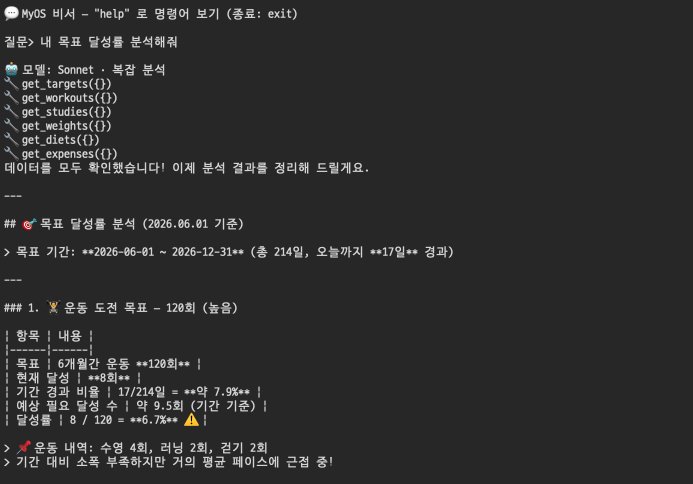
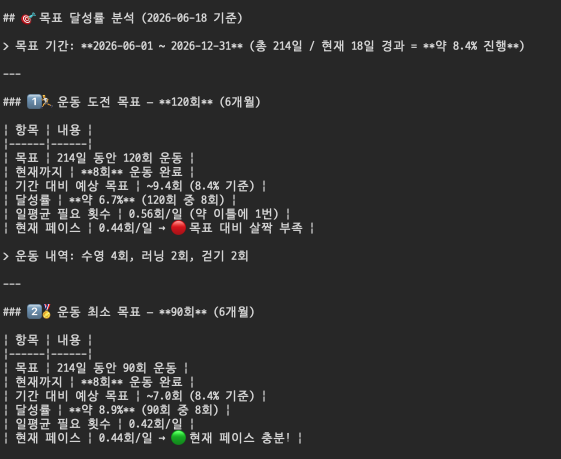
feat: 행 삭제(delete_record) 도구 추가
- delete_record 도구로 노션 휴지통 이동(복구 가능) 삭제 지원
- 삭제 전 제목·날짜 미리보기(getRecordSummary)로 잘못된 행 삭제 방지
  (날짜 없는 DB는 제목만 표시)
- 삭제/수정 의도 키워드 감지 시 상위 모델로 라우팅
- MyOS 캐러셀에 myos-screen4.png 추가

Changed region(s): [[0.0, 0.0, 0.6667, 0.5795], [0.0, 0.61, 0.5152, 0.976], [0.303, 0.0915, 0.9394, 0.122]]

diff --git a/src/index.ts b/src/index.ts
@@ -14,7 +14,13 @@ import { getProjects } from "./notion/project.js";
 import { getApplications } from "./notion/application.js";
 
 import { schemas } from "./notion/schema.js";
-import { createRecord, updateRecord, getCurrentValues } from "./notion/mutate.js";
+import {
+  createRecord,
+  updateRecord,
+  deleteRecord,
+  getCurrentValues,
+  getRecordSummary,
+} from "./notion/mutate.js";
 
 // Anthropic 클라이언트.
 const anthropic = new Anthropic();
@@ -137,6 +143,25 @@ const registry: Record<string, ToolDef> = {
     },
     run: (i) => updateRecord(i.database, i.id, i.fields),
   },
+  delete_record: {
+    description:
+      "기존 행을 삭제한다(노션 휴지통으로 보내며 30일 내 복구 가능). " +
+      "먼저 get_* 로 읽어서 지울 행의 id를 정확히 확인한 뒤, 그 id로 호출해라. " +
+      "여러 행을 지울 때는 행마다 한 번씩 호출한다. 쓸 수 있는 DB: " +
+      Object.keys(schemas).join(", "),
+    properties: {
+      database: {
+        type: "string",
+        enum: Object.keys(schemas),
+        description: "어느 DB의 행을 삭제할지",
+      },
+      id: {
+        type: "string",
+        description: "삭제할 행의 id (읽기 결과에 들어 있는 id)",
+      },
+    },
+    run: (i) => deleteRecord(i.database, i.id),
+  },
 };
 
 // 스키마를 훑어 "[expense] 내역(title), 금액(number)... / [diet] ..." 같은 문구를 만든다.
@@ -163,7 +188,7 @@ const tools: Anthropic.Tool[] = Object.entries(registry).map(
 );
 
 // 데이터를 바꾸는(위험한) 도구들. 실행 전에 사용자 확인을 받는다.
-const WRITE_TOOLS = new Set(["create_record", "update_record"]);
+const WRITE_TOOLS = new Set(["create_record", "update_record", "delete_record"]);
 
 // ── 조회 결과 캐시 ────────────────────────────────────────────
 // 같은 읽기 도구를 같은 입력으로 다시 부르면, 노션을 또 조회하지 않고 저장해 둔 결과를 쓴다.
@@ -217,6 +242,20 @@ function fmtValue(v: any): string {
 async function printWritePreview(name: string, input: any): Promise<void> {
   const fields: Record<string, any> = input.fields ?? {};
 
+  if (name === "delete_record") {
+    // 어떤 행을 지우는지 제목·날짜를 읽어와 보여준다(잘못된 행 삭제 방지).
+    let summary = { title: `(id: ${input.id})`, date: "" };
+    try {
+      summary = await getRecordSummary(input.database, input.id);
+    } catch {
+      // 요약을 못 읽어도 최소한 어느 DB/id를 지우는지는 아래에서 보여준다.
+    }
+    const when = summary.date ? `${summary.date} · ` : "";
+    console.log(`\n🗑  [${input.database}] 행을 삭제합니다 (휴지통으로 이동, 복구 가능):`);
+    console.log(`   • ${when}${summary.title}`);
+    return;
+  }
+
   if (name === "create_record") {
     console.log(`\n✍  [${input.database}]에 새 행을 추가합니다:`);
     for (const [col, value] of Object.entries(fields)) {
@@ -260,8 +299,12 @@ const system =
   '"~을 확인해 볼까요?" 같은 되묻기로 끝내지 말고, 직접 확인한 결과로 답해. ' +
   "데이터를 조회한 뒤에는 사람이 읽기 좋게 요약해서 한국어로 답해. " +
   // 쓰기 안내
-  "데이터를 추가/수정할 때는 create_record / update_record 도구를 쓴다. " +
-  "수정(update_record)하려면 먼저 get_* 로 읽어서 그 행의 id를 알아낸 뒤 id로 호출해라. " +
+  "데이터를 추가/수정/삭제할 때는 create_record / update_record / delete_record 도구를 쓴다. " +
+  "수정(update_record)이나 삭제(delete_record)를 하려면 먼저 get_* 로 읽어서 그 행의 id를 알아낸 뒤 id로 호출해라. " +
+  "삭제는 노션 휴지통으로 보내는 것이라 되돌릴 수 있지만, 그래도 어떤 행을 지울지 id를 정확히 확인하고 호출해라. " +
+  "행을 가릴 때는 제목 컬럼(예: 식단의 '식사' = 아침/점심/저녁)과 날짜로 찾아라. " +
+  "어떤 칸(예: '음식')이 비어 있어도 그 행이 '없는 것'이 아니다. 빈 값은 그냥 비어 있을 뿐, 행은 존재한다. " +
+  '예: 오늘 "아침" 행이 있는데 음식이 비어 있으면, 그 행은 분명히 존재하므로 "아침 기록이 없다"고 하지 말고 그 행을 삭제 대상으로 삼아라. ' +
   "쓰기는 실행 직전에 시스템이 사용자에게 y/N로 한 번 확인을 받는다. " +
   "그러니 너는 '이렇게 추가할까요?' 같은 확인 질문을 따로 하지 말고, 필요한 정보가 다 있으면 바로 도구를 호출해라. " +
   "정보가 부족할 때만(예: 어떤 행을 고칠지 불명확) 되물어라.";
@@ -290,11 +333,19 @@ const COMPLEX_HINTS = [
   "왜", "이유", "원인", "평가", "추천", "예측", "전망", "인사이트", "개선",
 ];
 
+// 데이터를 바꾸는(수정/삭제) 의도가 보이면 상위 모델로 올린다.
+// 어떤 행을 고치고 지울지 정확히 가려내는 판단이 필요하고, 되돌리기 번거로운 작업이라
+// 약한 모델이 빈 칸을 "기록 없음"으로 오판하는 식의 실수를 막는다. (조회/추가는 그대로 Haiku)
+const WRITE_HINTS = [
+  "삭제", "지워", "지울", "제거", "없애", "수정", "고쳐", "바꿔", "변경",
+];
+
 // 질문을 보고 어떤 모델로 처리할지 고른다. (추가 API 호출 없이 키워드만으로 판단 → 비용 0)
 function pickModel(question: string): string {
-  return COMPLEX_HINTS.some((w) => question.includes(w))
-    ? MODEL_COMPLEX
-    : MODEL_SIMPLE;
+  const needsComplex =
+    COMPLEX_HINTS.some((w) => question.includes(w)) ||
+    WRITE_HINTS.some((w) => question.includes(w));
+  return needsComplex ? MODEL_COMPLEX : MODEL_SIMPLE;
 }
 
 // ── 토큰 사용량 모니터링 ──────────────────────────────────────

diff --git a/src/notion/mutate.ts b/src/notion/mutate.ts
@@ -106,3 +106,38 @@ export async function updateRecord(
   });
   return { ok: true, id };
 }
+
+// 삭제 미리보기용: "이 행이 뭔지"를 알아볼 수 있게 제목(title)과 날짜(date) 값을 읽어온다.
+// 확인 프롬프트에서 "2026-06-18 · 점심 행을 삭제합니다"처럼 보여주는 데 쓴다.
+export async function getRecordSummary(
+  database: string,
+  id: string
+): Promise<{ title: string; date: string }> {
+  const schema = schemas[database];
+  if (!schema) throw new Error(`알 수 없는 데이터베이스: ${database}`);
+
+  // 이 DB의 title·date 컬럼 이름을 스키마에서 찾는다(보통 각각 하나씩).
+  const cols = Object.entries(schema.columns);
+  const titleColumn = cols.find(([, type]) => type === "title")?.[0];
+  const dateColumn = cols.find(([, type]) => type === "date")?.[0];
+
+  const page: any = await notion.pages.retrieve({ page_id: id });
+  const title = titleColumn
+    ? String(readProperty(page.properties, titleColumn, "title") ?? "")
+    : "";
+  const date = dateColumn
+    ? String(readProperty(page.properties, dateColumn, "date") ?? "")
+    : "";
+  return { title: title || "(제목 없음)", date };
+}
+
+// 기존 행을 삭제한다. id는 읽기(get_*) 결과에 들어 있는 id를 그대로 쓴다.
+// 노션은 완전 삭제가 아니라 휴지통으로 보낸다(in_trash) → 노션에서 30일 내 복구 가능.
+export async function deleteRecord(database: string, id: string) {
+  if (!id) throw new Error("삭제하려면 id가 필요하다. 먼저 읽어서 id를 확인해라.");
+  const schema = schemas[database];
+  if (!schema) throw new Error(`알 수 없는 데이터베이스: ${database}`);
+
+  await notion.pages.update({ page_id: id, in_trash: true });
+  return { ok: true, id };
+}
